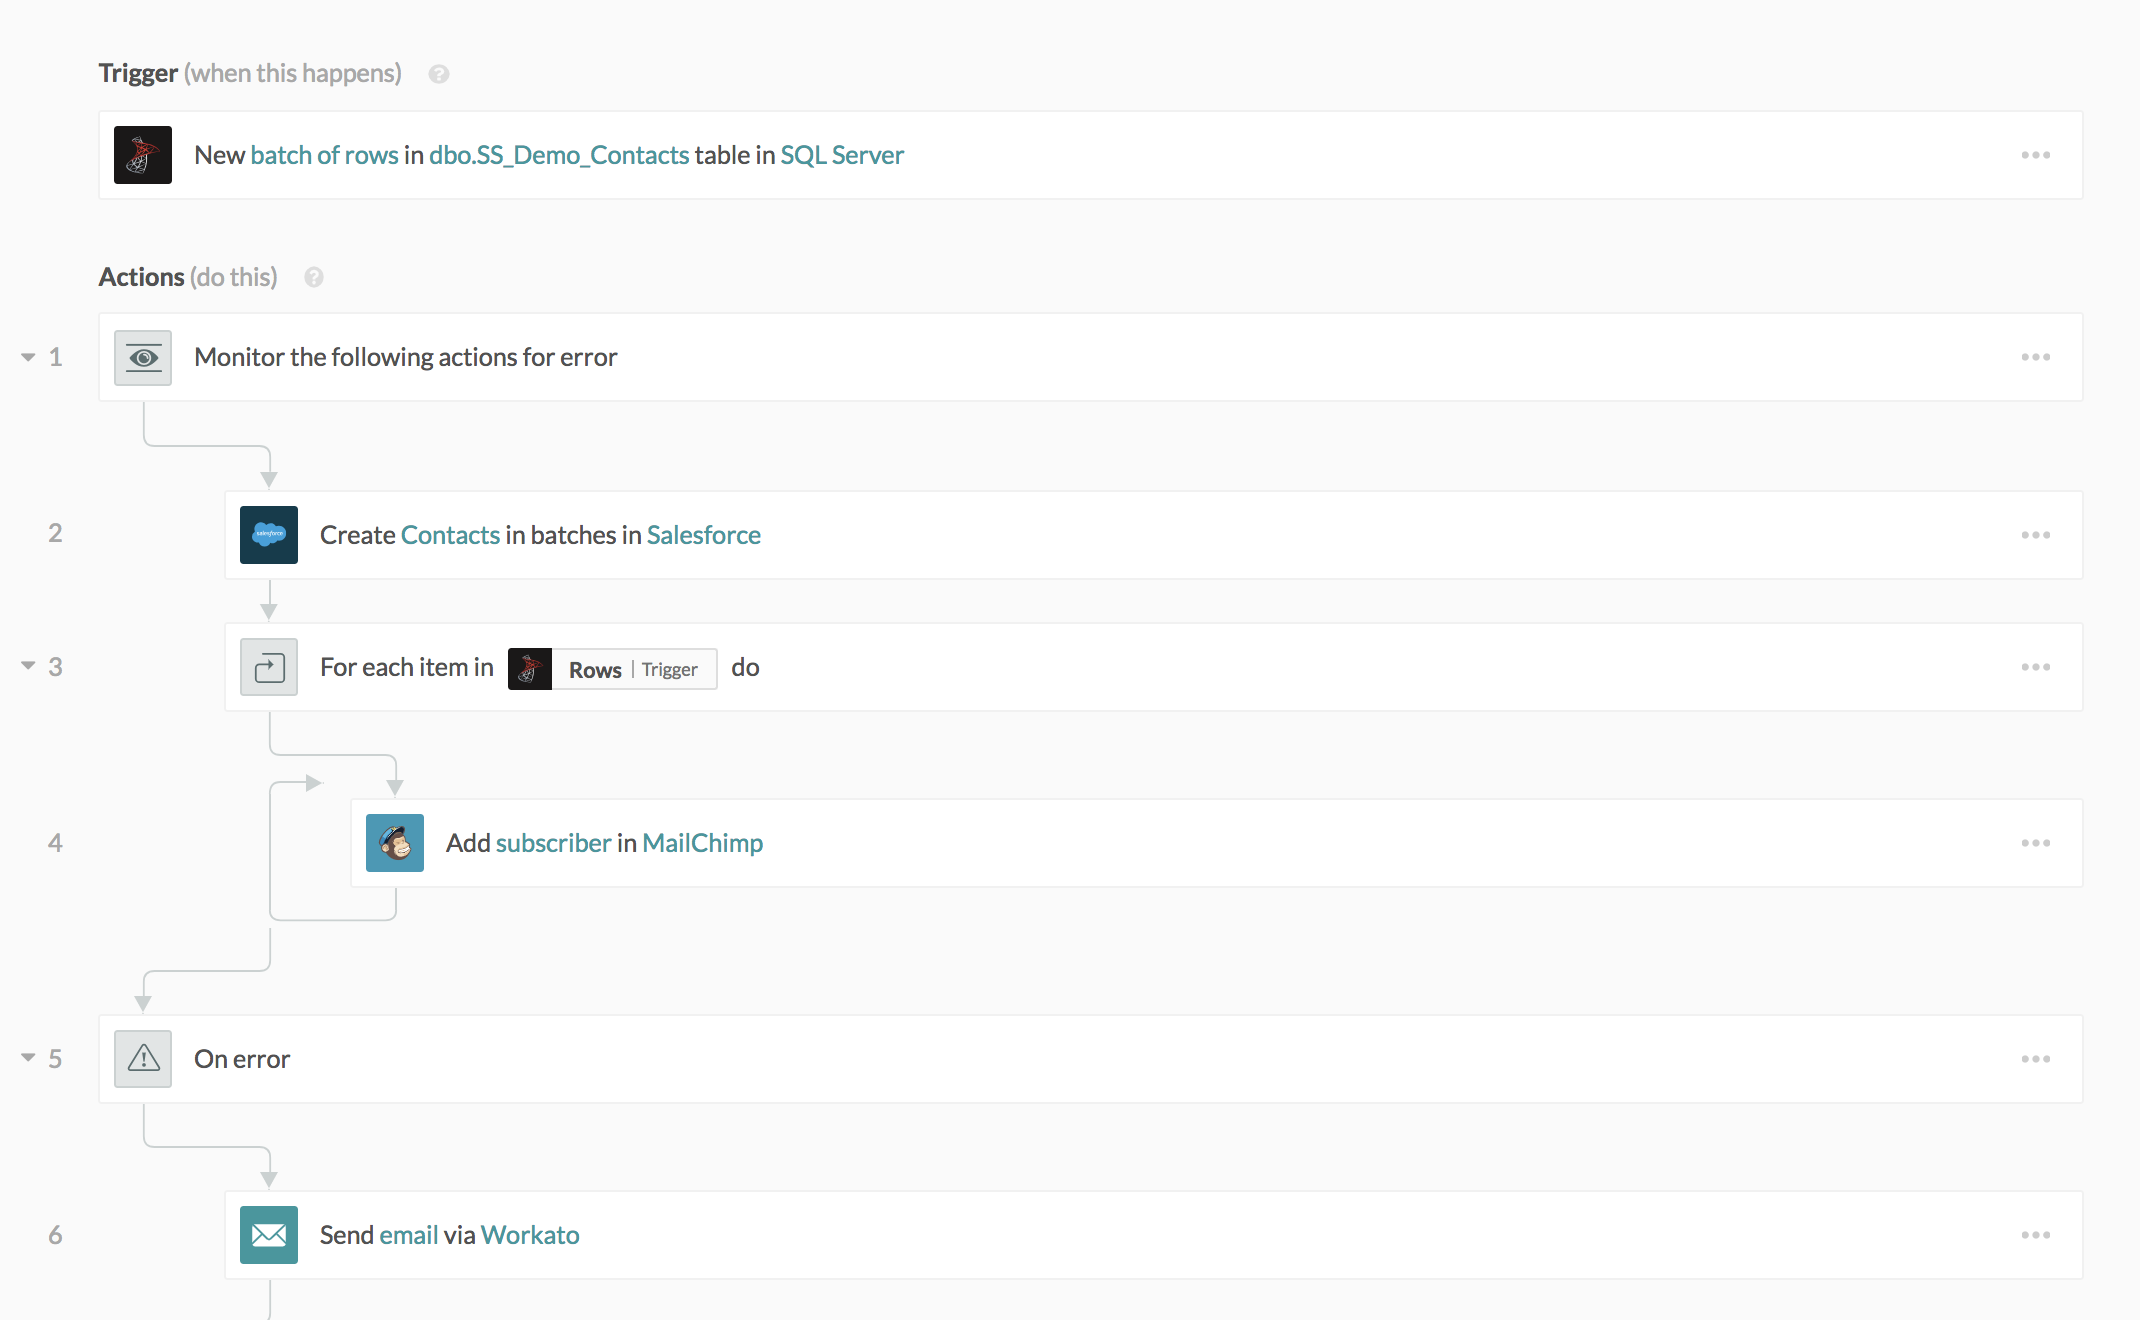
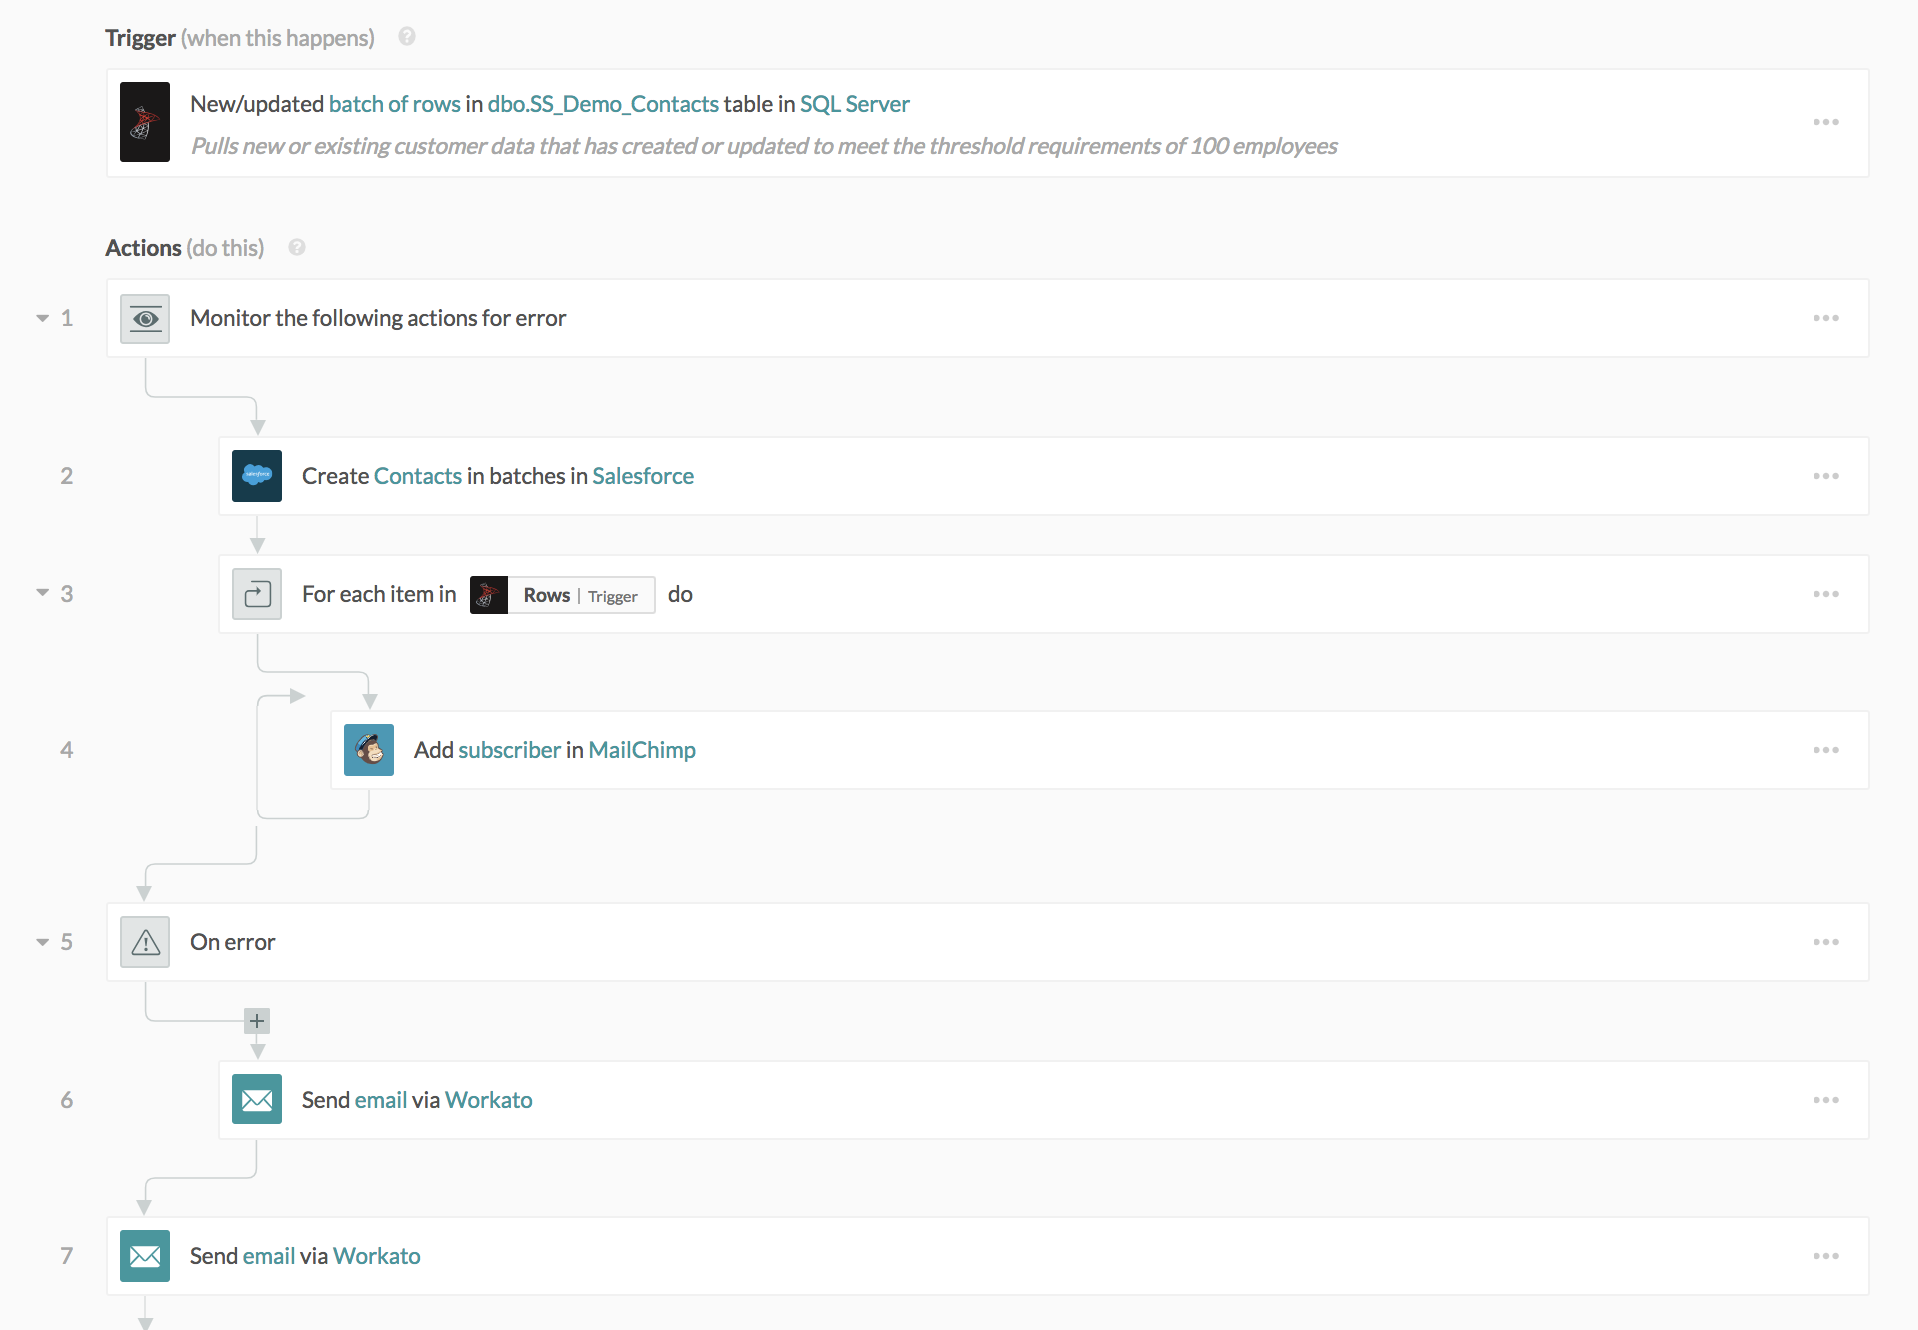
Updates to use cases

diff --git a/connectors/database-common-use-cases.md b/connectors/database-common-use-cases.md
@@ -14,20 +14,22 @@ Workato works with databases to offer workflow automations that allow you to acc
 * Data pipelines to data lakes and data warehouses
 
 ## Data exporting from databases for daily operations
-Data coming into your database can be used in various ways. Often we need this data coming into our servers from our websites to be available as soon as possible in a variety of applications. Workato makes setting up these workflows simple by automating these dataflows. Check out the example below to see leads that come in through your database from your website can be quickly integrated with Salesforce and Mailchimp for greater selling efficiency.
+Data coming into your database can be used in various ways. Often we need this data coming into our servers from our websites to be available as soon as possible in a variety of applications. Workato makes setting up these workflows simple by automating them. Check out the example below to see how changes in user attribute that come in through your database from your website can be quickly integrated with Salesforce and Mailchimp for greater selling efficiency. This could happen when users on your app indicate their interest in purchasing an item or perform a certain action that you believe indicates an upsell opportunity.
+
+This recipe can be extended to easily to include more actions if your workflows becomes more complex. Remember to keep in mind the use of batch actions whenever possible to reduce the number of tasks each recipes uses! Benefits of using Workato include the ability for these workflows to be changed so easily! Changes from one email campaign software such as Mailchimp to Sendgrid are easily handled with minimal coding.
 
 <details><summary><b>SQL server to Salesforce and Mailchimp </b></summary>
   <br>
-    Company ABC is fast growing software company that sells scheduling software for restaurants and other labour intensive companies. They have a website that attracts business owners and managers which fill in their particulars when they sign up for a trial. Company ABC has recently started using Salesforce to improve the capabilities of it's sales team as well as mailchimp to increase the number of customer touchpoints. Lead data comes in from their website into their SQL server database and they hope to automate the process of transferring this data from SQL server to Salesforce as well as adding them as subscribers to their mailchimp campaigns.
+    Company ABC is fast growing software company that sells scheduling software for restaurants and other labour intensive companies. They currently use a mobile application as well as browser application as a platform to allow their clients to do scheduling. As they push out a new system that handles leave tracking and payroll, they want to upsell these features to existing customers who currently have a certain number of employees as well as any customers that grow above this size.
   <br> <br>
-    Workato provides them with an easy to use and scalable way to build workflows that help export data from SQL server to Salesforce and mailchimp.
+    Workato provides them with an easy to use and scalable way to build workflows  that help export applicable customer data from SQL server where their data is stored to Salesforce and mailchimp.
   <br> <br>
 
   ![Recipe workflow](/assets/images/mssql/use-case-data-export-1.png)
 
   <center><i>Recipe overall workflow</i></center>
   <br>
-    We start by first creating a trigger based on the table in their SQL server database where new contact records are inserted when a user fills up their form on their website. After configuring the trigger, we add error handling through steps 1 and 5 which watch for errors and send an email if any error is raised. Steps 2, 3 and 4 come next where we can create contacts Salesforce based on return data from the records received in our trigger.
+    We start by first creating a trigger based on the table in their SQL server database where customer data is created or updated regularly based the application. After configuring the trigger, we add error handling through steps 1 and 5 which watch for errors and send an email if any error is raised. Steps 2, 3 and 4 come next where we can create contacts Salesforce based on return data from the records received in our trigger.
   <br>
 
   ![Configuring contacts in Salesforce connector](/assets/images/mssql/use-case-data-export-2.png)
@@ -44,18 +46,18 @@ Data coming into your database can be used in various ways. Often we need this d
     Since the Mailchimp connector does not have batch actions, this can be overcome through Workato's repeat action. Workato's repeat action allows us to cycle through the list of contacts from the SQL server trigger earlier. We then just need to add each contact in the list as a subscriber to a Mailchimp campaign.
   <br><br>
 
-  This recipe can be extended to easily to include more actions if your workflows becomes more complex. Remember to keep in mind the use of batch actions whenever possible to reduce the number of tasks each recipes uses! Benefits of using Workato include the ability for these workflows to be changed so easily! Changes from one email campaign software such as Mailchimp to Sendgrid are easily handled with minimal coding.
-
-  <h3> <a href="https://www.workato.com/recipes/915591#settings">Recipe link</a> </h3>
+  <h3> <a href="https://www.workato.com/recipes/917205-data-export-sql-server-to-salesforce-and-mailchimp#recipe">Recipe link</a> </h3>
 
 </details>
 
 ## Data replication from cloud based applications
-Workato allows you to perform data migrations of any scale using recipes that are easy to design, test and push into production. Data migrations are an essential consideration from your company is transitioning from one application to another as well as an essential step when backing up your data onto your local database servers. For example, Workato can be used to automate the process of backing up your Salesforce data onto your SQL servers.
+Workato allows you to perform data migrations of any scale using recipes that are easy to design, test and push into production. Data migrations are an essential considerations for a company that is transitioning from one application to another as well as an essential step when backing up your data onto your local database servers. For example, Workato can be used to automate the process of backing up your Salesforce data onto your SQL servers. Check out the example to find out how.
+
+This recipe can be used to also perform transformations before storing the final values in SQL server and removes the need for any complex scripts to be run and maintained. Using Workato, any further changes can be handled without any code at all.
 
 <details><summary><b>Salesforce to SQL server </b></summary>
   <br>
-  Company ABC is medium sized company that sells commercial insurance. Their sales team uses Salesforce as a CRM tool. Company ABC is beginning to practice the act backing up important their sales data stored in Salesforce in their own personal SQL servers as a way of disaster recovery plans. Workato can be used to automate this process and remove the need for any code to be written to set up this workflow.
+  Company ABC is a company that sells commercial insurance. Their sales team uses Salesforce as a CRM tool. Company ABC is beginning to practice the act backing up important their sales data stored in Salesforce in their own personal SQL servers as a way of disaster recovery plans. Workato can be used to automate this process and remove the need for any code to be written to set up this workflow.
 
   <br><br>
 
@@ -82,7 +84,9 @@ Workato allows you to perform data migrations of any scale using recipes that ar
 </details>
 
 ## Database reports/ information as an API end point
-  Companies that want to grant access to internal teams or clients without exposing their database can do so in the form of an API managed directly through Workato. Workato allows you to [build APIs](/api-management.md) that can call recipes that trigger workflows involving your database such as returning how much inventory you have left of a certain product or the status of a delivery. Check out the recipe below on how to build a callable recipe in Workato that can be exposed securely via a REST API to your company's business partners. This can also be extended to be done from an on-premises database, abstracting away the complexity of managing this connection.
+  Companies that want to grant access to internal teams or clients without exposing their database can do so in the form of an API managed directly through Workato. Workato allows you to [build APIs](/api-management.md) that can call recipes that trigger workflows involving your database such as returning how much inventory you have left of a certain product or the status of a delivery. Check out the recipe below on how to build a callable recipe in Workato that can be exposed securely via a REST API to your company's business partners.
+
+  This recipe can also be extended to be done from an on-premises database, abstracting away the complexity of managing this connection. Any further changes to the business needs of your business or your partners can also be done directly on Workato with a basic understanding of SQL and no coding as well!
 
 <details><summary><b>Callable recipe to return inventory status</b></summary>
   Company ABC is a growing toy company that retails through various online partners. Instead of having to always update each partner of its inventory status of each of it's toys, it can now give each partner access to its API which queries its Oracle database to find out the inventory status of each of its toys. This reduces workload on both ends and also allows for real time updates for it's business partners.
@@ -101,8 +105,10 @@ Workato allows you to perform data migrations of any scale using recipes that ar
   <h3> <a href="https://www.workato.com/recipes/917299#recipe">Recipe link</a> </h3>
 </details>
 
-## Data Warehousing/ Data lakes
+## Data Warehousing/ Database syncs
   Data warehouses and data lakes are useful tools to empower analytics and business intelligence in business. They are be used in various different capacities such as department specific warehouses for operations centric or HR centric data. Workato can be used to automate the process of sending data over to a data warehouse from multiple sources each day. This makes maintaining your data pipelines much easier by automating the process and minimising the troubleshooting involved when changes such as table schemas are made.
+
+  This recipe not only automates the process of transferring data but allows for the easy maintenance of such pipelines. Workato's easy to use interface means that schema changes or changes to which data warehouse you are using can be easily switch out. Authentication would also be done via our platform so you needn't have to deal with that complexity.
 
  <details><summary><b>SQL server Daily sync to Snowflake warehouse via Amazon S3</b></summary>
   Company ABC wants to sync contact information of all its customers into Snowflake to allow for better real time reporting. Due to the large volume of contact information received each day, Company ABC needs a fast and efficient way of transferring data from SQL server to Snowflake. A recipe on Workato can be made that leverages on the use of stored procedures, on-prem files and Amazon s3 to transfer large amounts of data quickly.
@@ -111,8 +117,7 @@ Workato allows you to perform data migrations of any scale using recipes that ar
   <center><i>Triggered daily, this recipe moves large amounts of data from SQL server to Snowflake</i></center>
 <br>
   Upon triggering, this recipe executes a stored procedure on SQL server that transforms data exports it into a specified folder as a CSV. This folder is configured such that Workato's on-prem agent is connected to it. Using Workato's on-prem file connector, new folders like this can be downloaded and quickly uploaded to Amazon S3. Lastly, Workato's native Snowflake to S3 bucket integration can be used quickly load all this data in.
-<br> <br>
-  This recipe not only automates the process of transferring data but allows for the easy maintenance of such pipelines. Workato's easy to use interface means that schema changes or changes to which data warehouse you are using can be easily switch out. Authentication would also be done via our platform so you needn't have to deal with that complexity.
+<br>
 
   <h3> <a href="https://www.workato.com/recipes/917080#recipe">Recipe link</a> </h3>
 </details>
